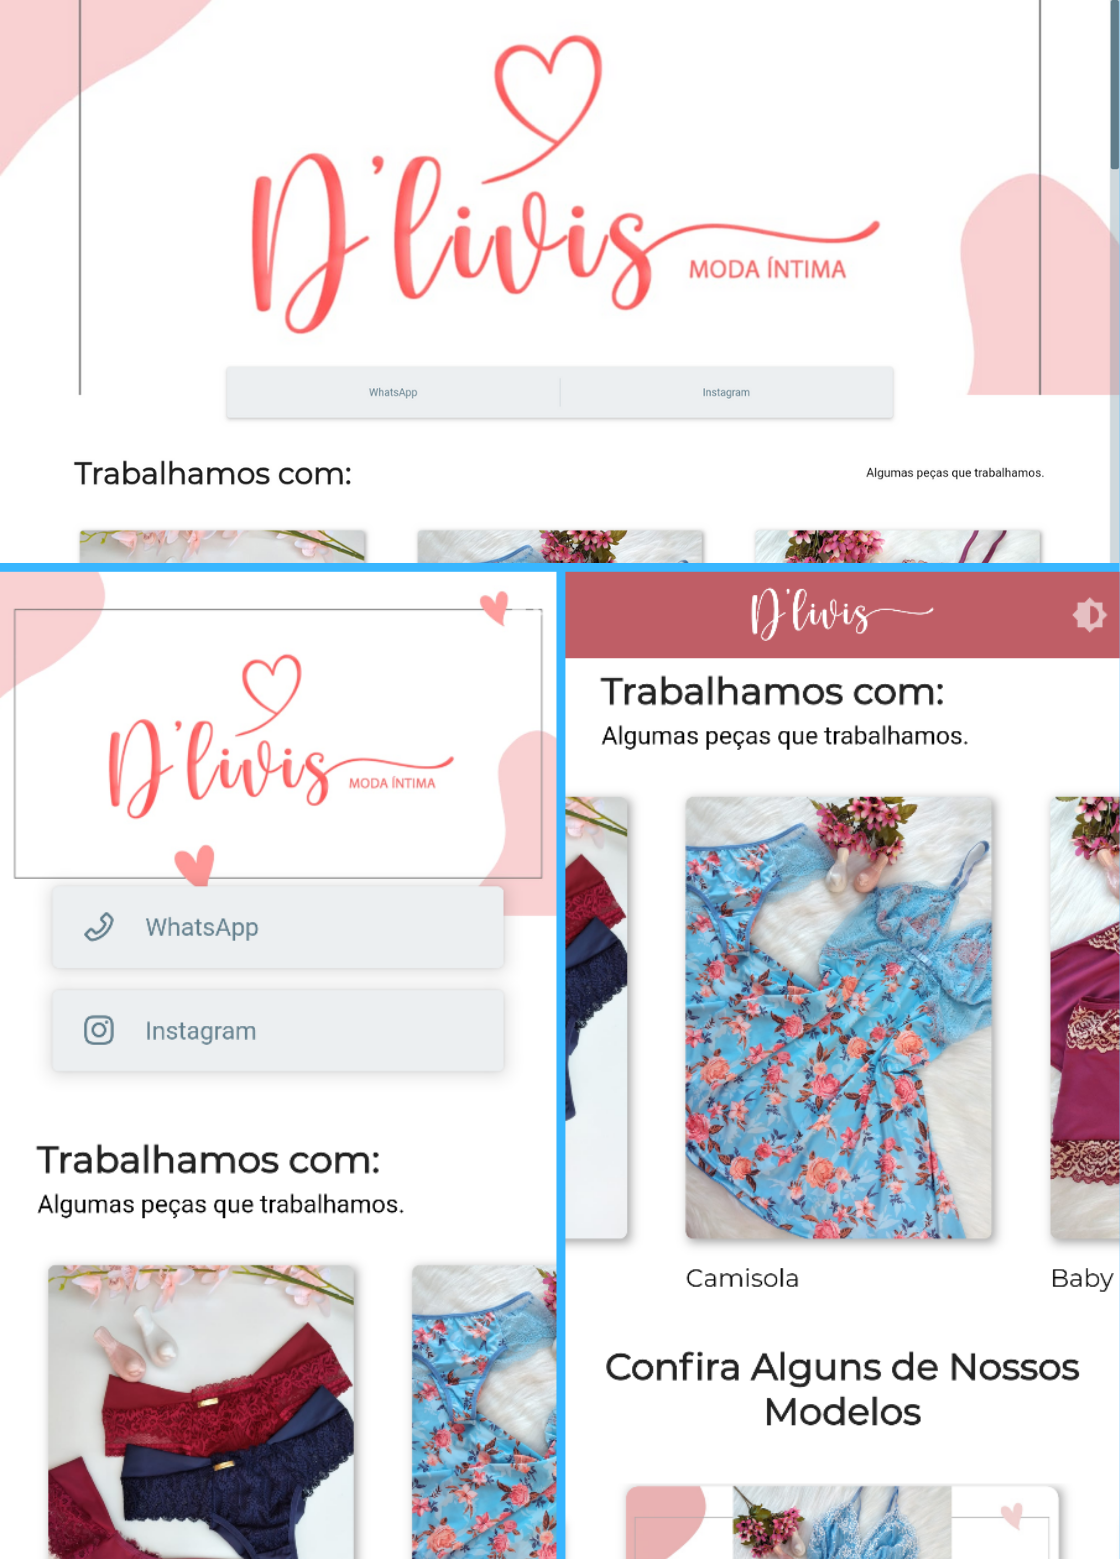
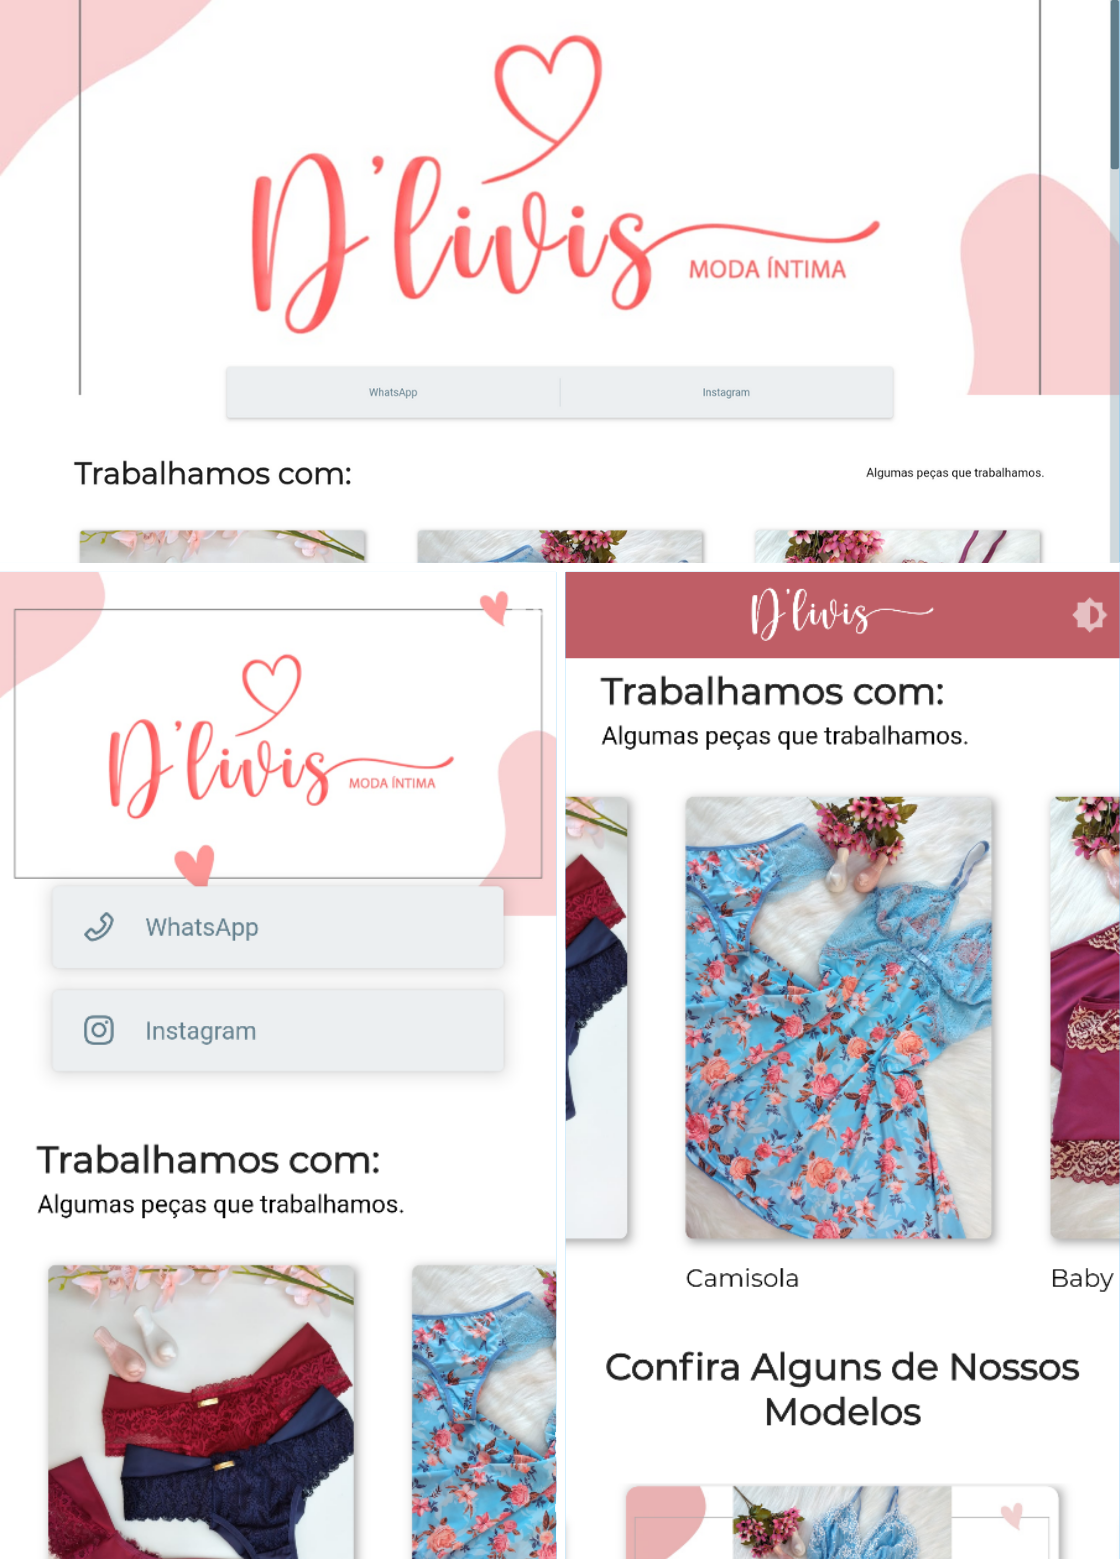
portifolio

Changed region(s): [[0.0, 0.3387, 1.0, 1.0]]

diff --git a/index.html b/index.html
@@ -104,27 +104,118 @@
 
 	<section class='container_escuro'>
 		
-			<img src="imagem/5.png" alt="" class="img1">
+			<img src="imagem/6.png" alt="" class="img1">
 			
 			
 		
 		
 		<div class="container">
 			<h1 >
-				App de Viabilidade Economica
+				App Curva de retenção
 			</h1>
-			<p>O Aplicativo tem como objetivo Fazer uma estimativa da margem de lucro em um sistema aquaponico</p>
-			<p>Temdo como base o capital inicial e os aportes mensais como manutenção do sistema, o aplicativo faz uma previsão dos lucros e prejuiso ao longo dos proximos 5 anos.</p>
+			<p>Tem como proposta calcular o nivel de umidade do solo</p>
+			<p>O usuario entra com os dados dos tensiometros espalhados pela plantação e o aplicativo calcula a saturação do solo.</p>
 			
 			<div class="tag">
 				<h4>Tecnologias</h4>
 				<p>Dart</p> 
 				<p>Flutter</p>
-				<a href="https://github.com/marcyhel/App_Viabilidade_Economica"target="_blank"><img src="imagem/git.png" alt=""></a>
+				<a href="https://github.com/marcyhel/App_Curva_de_Reten"target="_blank"><img src="imagem/git.png" alt=""></a>
 			</div>
 			
 		</div>
 	</section>
+
+	<section class='container_claro'>
+		
+		<img src="imagem/5.png" alt="" class="img1">
+		
+		
+	
+	
+	<div class="container">
+		<h1 >
+			Site de apresentação
+		</h1>
+		<p>Um site bem simples com o intuito de divulgar a marca da loja</p>
+		<p>Demonstrando algums produtos e formas de pagamento que a loja ofereçe, redirecionando para os canais de comunicação.</p>
+		
+		<div class="tag">
+			<h4>Tecnologias</h4>
+			<p>Dart</p> 
+			<p>Flutter</p>
+			<a href="https://github.com/marcyhel/Dlivis_web"target="_blank"><img src="imagem/git.png" alt=""></a>
+		</div>
+		
+	</div>
+</section>
+<section class='container_escuro'>
+		
+	<img src="imagem/7.gif" alt="" class="img1">
+	
+<div class="container">
+	<h1 >
+		Site de balanço hidríco para culturas
+	</h1>
+	<p>Site pra verificação do periodo de produção e colheita de alguns tipos de plantação</p>
+	<p>O usuario fornece alguns dados como o tipo do solo, tipo de pantio e a localização para que possa ser pego os dados climaticos do INMET, e sera calculado a melhor faze de plantio e colheita.</p>
+	
+	<div class="tag">
+		<h4>Tecnologias</h4>
+		<p>Dart</p> 
+		<p>Flutter</p>
+		<a href="https://github.com/marcyhel/Plat4"target="_blank"><img src="imagem/git.png" alt=""></a>
+	</div>
+	
+</div>
+</section>
+
+<section class='container_claro'>
+		
+	<img src="imagem/8.gif" alt="" class="img1">
+
+<div class="container">
+	<h1 >
+		Jogo de plataforma
+	</h1>
+	<p>Jogo foi feito pra um trabalho da faculdade com a intenção de insentivar as pessoas a fazerem mais calculos de cabeça</p>
+	<p>Tem como objetivo destruir todos os inimigos e coletar todas as cartas, quando destroi um inimigo tem 50% de chance de dropar uma carta, essas cartas serve pra soltar poder.</p>
+	
+	<div class="tag">
+		<h4>Tecnologias</h4>
+		<p>Python</p> 
+		<p>Pygame</p>
+		<a href="https://github.com/marcyhel/Jogo_rogue_like"target="_blank"><img src="imagem/git.png" alt=""></a>
+	</div>
+	
+</div>
+</section>
+<section class='container_escuro'>
+		
+	<img src="imagem/9.gif" alt="" class="img1">
+	
+<div class="container">
+	<h1 >
+		jogo de blocos
+	</h1>
+	<p>Esse projeto foi feito visando desenvolver as capacidades logicas</p>
+	<p>O jogador possui uma serie de blocos que fazem certas funções como empurrar, copiar e girar.</p>
+	
+	<div class="tag">
+		<h4>Tecnologias</h4>
+		<p>Python</p> 
+		<p>Pygame</p>
+		<a href="https://github.com/marcyhel/Bloco"target="_blank"><img src="imagem/git.png" alt=""></a>
+	</div>
+	
+</div>
+</section>
+
+<section class='finalbar'>
+<h3>A prática leva à perfeição</h3>
+<p>"Um ser humano deve transformar informação em inteligência ou conhecimento. Tendemos a esquecer que nenhum computador jamais fará uma nova pergunta." - Grace Hopper</p>
+</section>
+
 	
 <script type="text/javascript" src='java.js'></script>
 </body>

diff --git a/estilo.css b/estilo.css
@@ -15,6 +15,26 @@ html {
 body{
 	margin: 0;
 }
+.finalbar{
+	margin-top: 100px;
+	margin-left: auto;
+	margin-right: auto;
+	text-align: center;
+	height: 500px;
+	width: 54%;
+	color:#657786;
+	
+}
+.finalbar h3{
+	color:#50585f;
+	font-size: 152%;
+	margin-bottom: 50px;
+	
+}
+.finalbar p{
+	padding-bottom: 30px;
+	border-bottom: 2px solid #e6ecf0;
+}
 .space{
 	background-color: #497bad;
 	width: 100%;
@@ -143,9 +163,12 @@ nav li a.active {
 
 .img1{
 	margin-top:50px;
-	margin-left: 20%;
-	height: 25rem;
+	margin-left: 12%;
+	width: 400px;
+  	height: 400px;
+	/*height: 25rem;*/
 	float:left;
+	object-fit:scale-down;
 }
 .tag{
 	margin-left: 55%;
@@ -254,7 +277,7 @@ img {
 	
 	
 		width: 100%;
-		height: 66rem;
+		height: 60rem;
 		display: block;
 		border-bottom: 2px solid #e6ecf0;
 		border-top: 2px solid #e6ecf0;
@@ -278,7 +301,7 @@ img {
 	
 		background-color: #497bad;
 		width: 100%;
-		height: 66rem;
+		height: 60rem;
 		display: block;
 		border-bottom: 2px solid #e6ecf0;
 		border-top: 2px solid #e6ecf0;
@@ -302,15 +325,15 @@ img {
 	
 	.img1{
 		margin-top:50px;
-		
-    	
+		margin-left: 15%;
+    	width: 250px;
 		height: 20rem;
 		
 		/*float:top;*/
 	}
 	.tag{
 		text-align: center;
-		margin-left: 40%;
+		margin-left: 35%;
 		margin-top: 20%;
 		
 		
@@ -327,12 +350,14 @@ img {
 	.tag img{
 		
 		margin: 5px 0px;
-		display: inline;
-	
-		margin-right: -10px;
+		display: inline-block;
+		
+		margin-right: -20;
 		height: 50px;
 	}
-	
+	.finalbar{
+		width: 80%;
+	}
 
 
 
